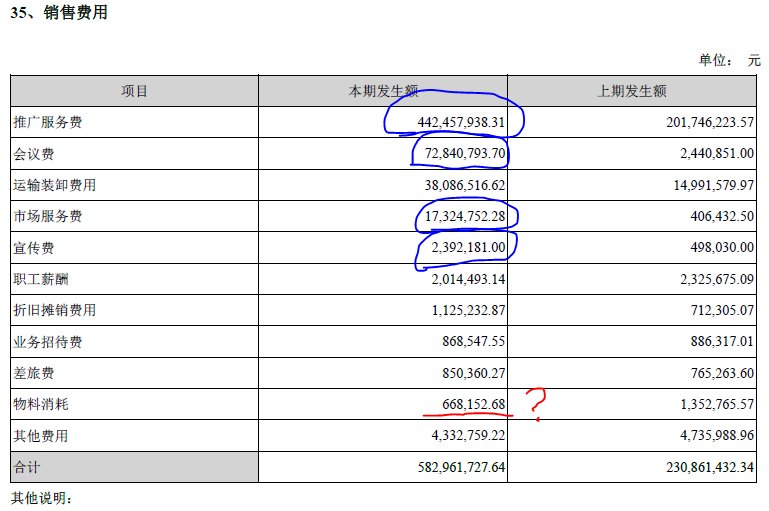
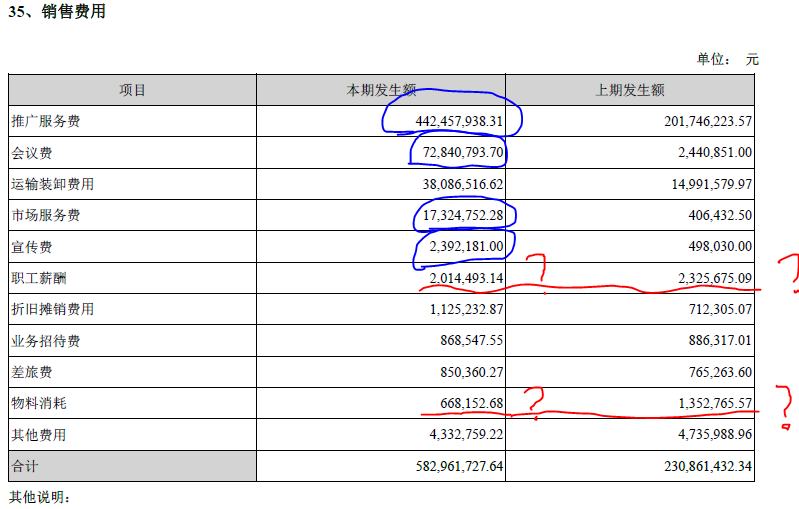
reorg

Changed region(s): [[0.0, 0.0884, 1.0, 1.0], [0.0, 0.0, 0.156, 0.0589]]

diff --git a/疫苗.md b/疫苗.md
@@ -17,30 +17,41 @@
 
 ![](https://github.com/PKUJohnson/LearnJaqsByExample/blob/master/image/ext/ktsw_pledge_sjs.png)
 
+下面我们使用DataApi，查看两家公司股权质押明细数据。
+
 ```python
 from jaqs.data import DataApi
 api = DataApi("tcp://data.quantos.org:8910")
 api.login("username","password")
-df1, msg=api.query(view='lb.secFrozenPledger',filter=symbol=002680.SZ&start_date=20180620&end_date=20180720" )
-df2, msg=api.query(view='lb.secFrozenPledger',filter=symbol=300601.SZ&start_date=20180620&end_date=20180720" )
+df1, msg=api.query(view='lb.secFrozenPledger',filter=symbol=002680.SZ&start_date=20180724&end_date=20180724" )
+df2, msg=api.query(view='lb.secFrozenPledger',filter=symbol=300601.SZ&start_date=20180724&end_date=20180724" )
 ```
 
 ![](https://github.com/PKUJohnson/LearnJaqsByExample/blob/master/image/ext/cssw_pledge.png)
 
 ![](https://github.com/PKUJohnson/LearnJaqsByExample/blob/master/image/ext/ktsw_pledge.png)
 
-截至今日，长生生物已连续7个一字跌停；康泰生物自被卷入疫苗事件后也大跌近30%。上述质权人或面临较大的质押风险。
+
+早在2018年6月底，长生生物质押给兴业证券的股票数量就高达1.04亿股。在经历了上周5个交易日5个一字跌停后，长生生物股东张洺豪又向兴业证券补充质押了7336万股。兴业证券此时已累计持有1.78亿股，折合市值20.9亿元，超越高俊芳，成为上市公司长生生物第一大股东！
+
+相较之下，康泰生物的质权人要好过得多。
+
++ 背锅最大的招商证券质押1570万股，折合市值8.2亿元；
++ 第二的中国对外经济贸易信托质押600万股，折合市值3.1亿元；
++ 第三的中国银河证券质押525万股，折合市值2.7亿元。
+
+截至今日，长生生物已连续7个一字跌停；康泰生物自被卷入疫苗事件后也大跌近30%。在这背后默默吃面的除了散户，还有以上的股东们。
 
 ## 报表分析
 
 1. 企业毛利润分析
-自2015年至今，这两家公司的营业总收入飞速上升。国家医疗条件改善，医疗市场规模扩大，的确合理。但是与此同时，毛利率也开始飞速增长？直逼甚至超过医药龙头恒瑞医药？
+自2015年至今，这两家公司的营业总收入飞速上升。国家医疗条件改善，医疗市场规模扩大，的确合理。但是与此同时，毛利率也开始飞速增长？三年赶英超美，直逼龙头恒瑞医药？
 
 ![](https://github.com/PKUJohnson/LearnJaqsByExample/blob/master/image/ext/income.png)
 
 ![](https://github.com/PKUJohnson/LearnJaqsByExample/blob/master/image/ext/gross_rate.png)
 
-在这样的增速下，两家公司的毛利润及增速数据的确非常好看。让我们进一步看看企业的期间费用是否合理。
+在这样的增速下，两家公司的毛利润及增速数据的确非常好看。但数据质量如何呢？让我们进一步看看企业的期间费用是否合理。
 
 2. 期间费用分析
 ```python
@@ -66,27 +77,43 @@ df['销售费用率'] = df['销售费用'] / df['其中：营业收入（元）'
 
 长生生物的财务费用是比较正常的。医药生物企业一般拥有较低的资产负债率以及充足的现金流，因此财务费用一般较低甚至为负数。
 
-但销售费用和管理费用就与业绩的增长不成比例了，这必须扒年报瞧一瞧了。上图。
+但销售费用和管理费用就与业绩的增长太不成比例了，这里必须扒年报瞧一瞧了。上图。
 
 ![](https://github.com/PKUJohnson/LearnJaqsByExample/blob/master/image/ext/sales_marked.png)
 
 我去？？？销售费用倒是挺有意思的。人力物力消耗都减少了，而一些说不清道不明的中介费、服务费、会议费、宣传费都成倍在增加。我要是车间老员工，我也举报你。
 
-不过，这一变化说起来也似乎又有那么点依据。自2016年后，疫苗生产厂与经销商之间的买卖关系被切断，生产厂需要通过“中介”来打开渠道。疫苗流通体制这么一改，好像各家公司也不得不拼钱抢市场了。
+不过，这一变化说起来也似乎又有那么点依据。
+
+2016年山东非法疫苗曝光后，监管部门修订了二类疫苗的流通规则，以加强监管。这一修订，直接导致了疫苗生产厂商销售费用的大幅提升。
+
+以前是疫苗生产商直接与经销商进行买卖，而现在疫苗生产商的销售对象变成了各县区级疾控中心。这个新引入的推广服务商成为了新的“渠道”，逼得疫苗生产商不得不给予回扣，争夺资源。
 
 ![](https://github.com/PKUJohnson/LearnJaqsByExample/blob/master/image/ext/management_marked.png)
 
 再来看看管理费用。
 
-研发支出费用化部分这么多，研发了啥？股权激励，激励造假？税为什么少了这么多，税局的同志们呢？？？别打疫苗了，来查账吧。
++ 研发支出
 
-另外说一句，管理费用中的研发支出只是公司研发支出中的费用化部分。小编特意去查了长生生物年报中的资本化部分，资本化部分比例竟然高达64.99%。也就是说，每100元的研发支出，只有35.01元是试错的代价。
+医药企业的重点在于研发，因此研发支出的投入一般是比较多的。研发的失败率也是比较高的。
 
-研发支出要想资本化，是要满足严格条件的，是要真的研发出东西来的。你们如果不是骗子，就是祖国的未来:)隔壁康泰生物才28.96%资本化，而恒瑞医药是全部费用化了。
+在会计处理上，研发支出通常有两种分类：一种是资本化支出，一种是费用化支出。顾名思义，资本化支出相当于企业的资产，未来可以给企业创收；而费用化支出可以理解为实验失败，为一种费用损耗。企业是有动机尽量把研发支出资本化的，因为资本化以后费用就少了，直接会导致本年净利润提升，股价上涨。所以会计师事务所在进行年报审计时，会尤其关注资本化部分是否满足要求，以体现谨慎性。
+
+然而！2017年研发支出仅占营业收入7.87%的长生生物，其研发支出资本化比率高达64.99%！这种逆天的研发能力，简直要震惊医学界了！他们如果不是骗子，那就是祖国的未来啊！
+
++ 股权激励
+
+股权激励？激励造假？
+
+上一张销售费用的图里可以明确看到，长生生物销售人员的职工薪酬是不升反降。是通过股权激励支付了吗？
+
+![](https://github.com/PKUJohnson/LearnJaqsByExample/blob/master/image/ext/motivation.png)
+
+股权激励竟然不关销售人员什么事，激励的全部都是公司高管。打翻人民饭碗，还想人民不造反？？？举报你丫的！
 
 3. 净利润分析
 
-管理费用加上销售费用，占到了2017年营业收入的47.5%。在这样的数据质量下计算出来的净利润，反正我是不信的。但还是上图吧。
+管理费用加上销售费用，占到了2017年营业收入的47.5%，并且内部结构如此之谜。在这样的数据质量下计算出来的净利润，反正我是不信的。但还是上图吧。
 
 ```python
 df, msg = stock.get_report_data(symbol='002680.SZ', type='利润表')
